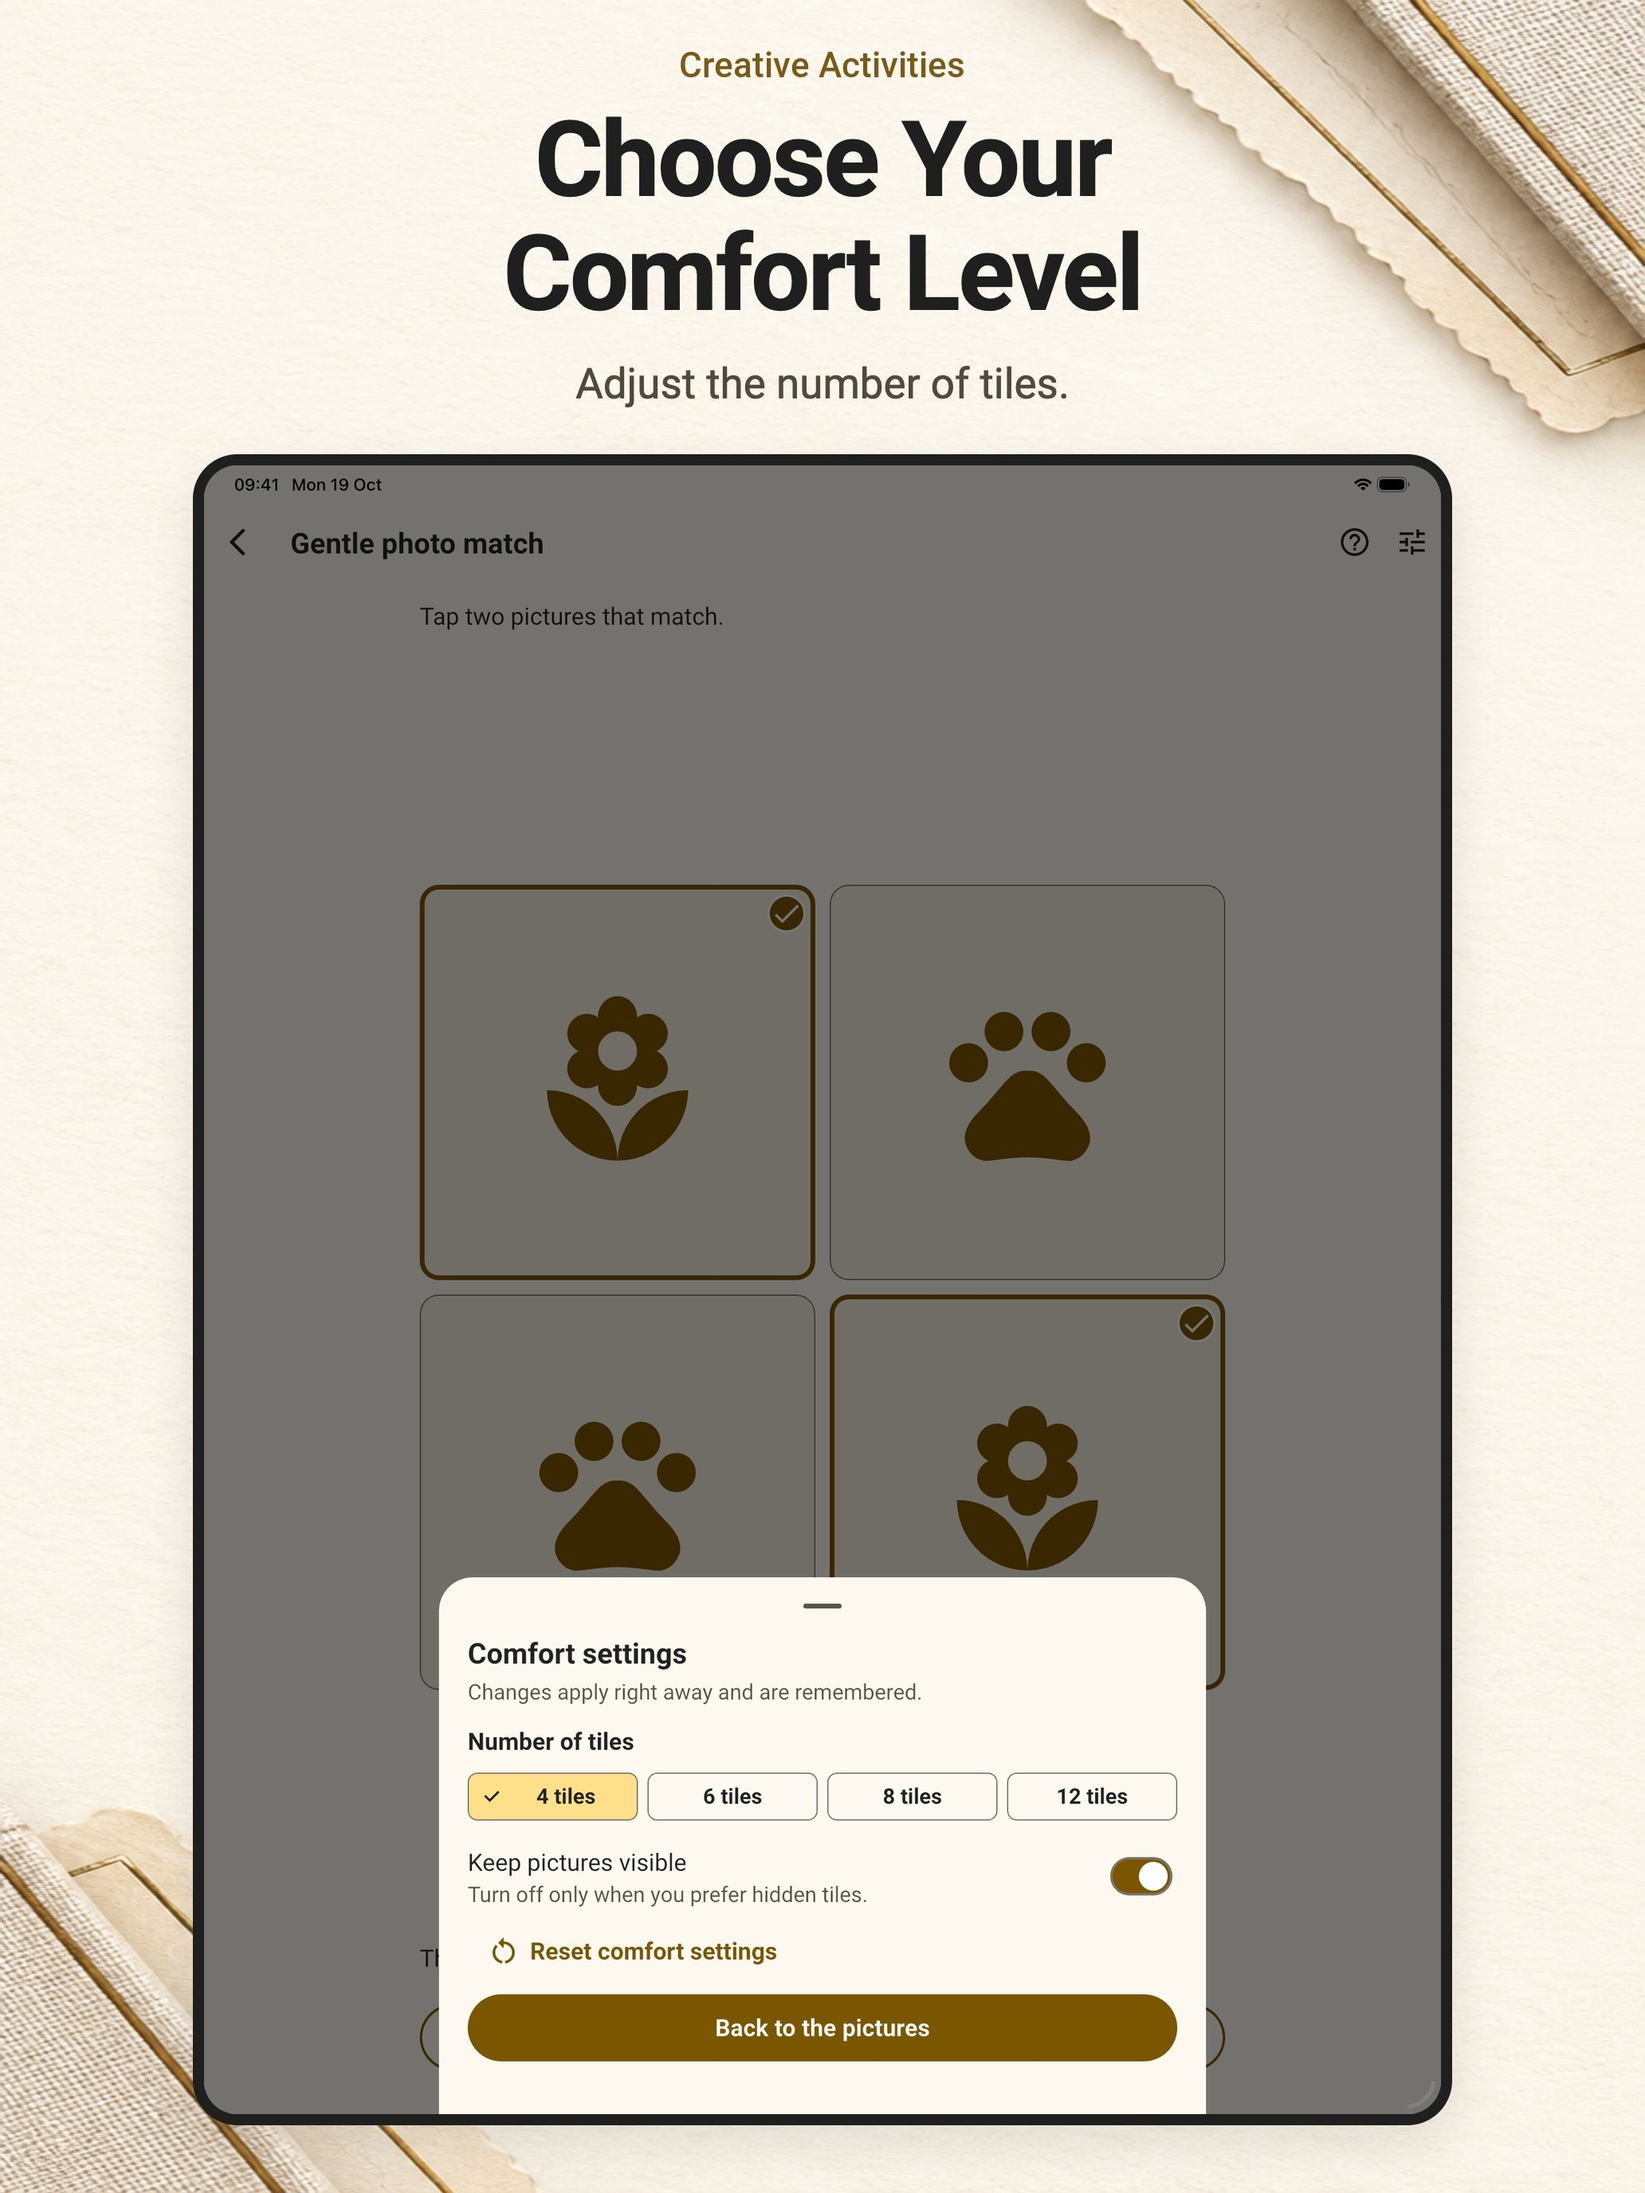
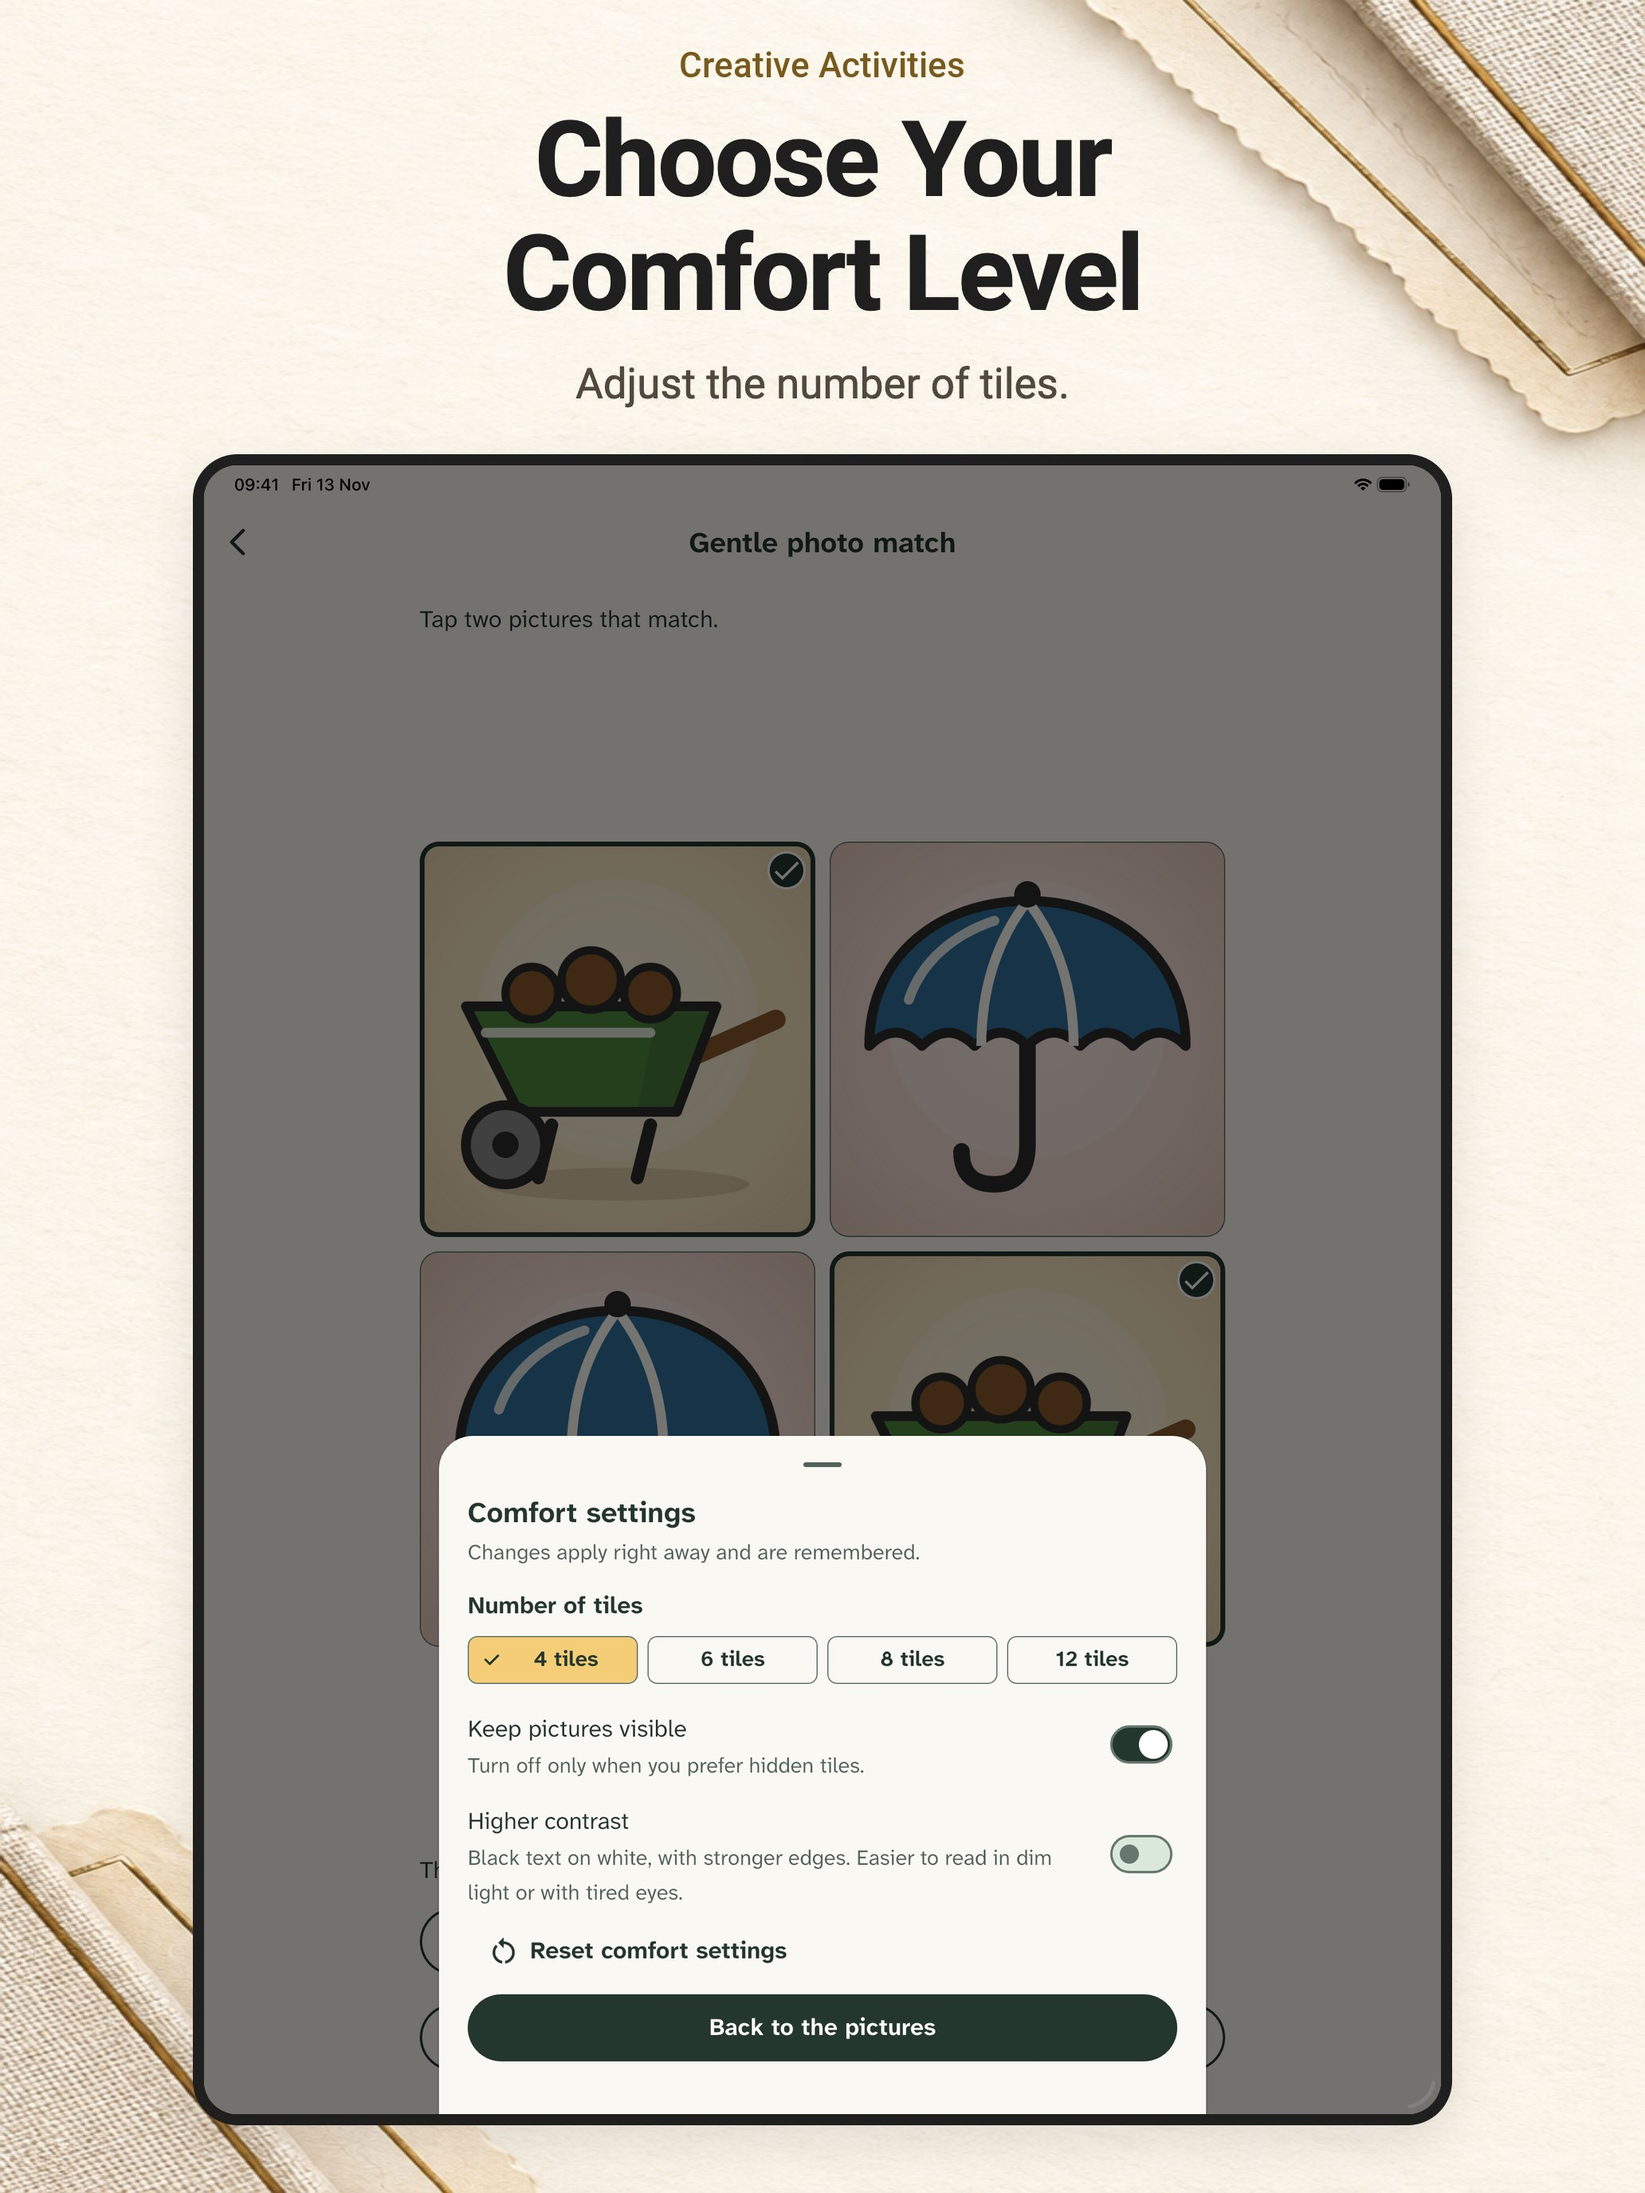
chore: retake iPhone and iPad store screenshots in the new palette
The store frames showed the Golden Moments palette. Recapture all twelve
iOS frames from a53cc0e on iOS 26.5 simulators and recompose them into the
approved frames. The capture test opened comfort settings through the
Home menu, which the game screen no longer has; it now taps the game
screen's own Comfort settings button. Google Play frames are not retaken.

Claude-Session: https://claude.ai/code/session_01JyKFwLLPRregv73jTxnAch

diff --git a/integration_test/store_screens_test.dart b/integration_test/store_screens_test.dart
@@ -45,7 +45,10 @@ void main() {
       await _hostCapture(tester, '03');
 
       // 5. The comfort sheet over the activity.
-      await tapHomeMenuItem(tester, 'Comfort settings');
+      await tapOn(
+        tester,
+        buttonWithLabel<OutlinedButton>(find.text('Comfort settings')),
+      );
       await waitFor(tester, find.text('Back to the pictures'));
       await _hostCapture(tester, '05');
       await tapOn(tester, find.text('Back to the pictures'));

diff --git a/assets/screenshots/en-US/README.md b/assets/screenshots/en-US/README.md
@@ -4,11 +4,11 @@ Six separate iPhone JPEGs at 1320 by 2868 pixels, six iPad JPEGs at 2064 by 2752
 
 ## Brand label
 
-On 2026-11-13 the small label above each headline changed from "Golden Moments" to "Creative Activities" with `scripts/relabel_store_frames.py --font <Roboto-Medium.ttf>`. Only the label changed. Frame 4 still shows "Picture 1 of 2", which build 14 (1.10.0) no longer displays; retake it before a public submission.
+On 2026-11-13 the small label above each headline changed from "Golden Moments" to "Creative Activities" with `scripts/relabel_store_frames.py --font <Roboto-Medium.ttf>`. Only the label changed. Frame 4's "Picture 1 of 2" is correct: 1.10.0 drops the count only for the included drawings, and family photos keep it.
 
 ## Current captures
 
-The current captures come from `b9e681c`, the album library with family photos shown as cropped prints. They were taken on the iPhone 17 Pro Max and iPad Pro 13-inch (M5) simulators running iOS 26.5, both with `scripts/capture_store_screens.sh`. That script runs `integration_test/store_screens_test.dart`, which drives the real app to each frame and pauses while the screen is saved.
+The iPhone and iPad captures were retaken on 2026-11-13 from `a53cc0e`, the 1.10.0 source with the Creative Activities palette (ink, canvas, sage, sun) and Atkinson Hyperlegible Next type. The Google Play frames in `android/` still come from `b9e681c` and show the previous palette; retake them before they are used again. Both iOS sets were taken on the iPhone 17 Pro Max and iPad Pro 13-inch (M5) simulators running iOS 26.5, with `scripts/capture_store_screens.sh`. The iPad status bar shows the capture date next to 9:41. That script runs `integration_test/store_screens_test.dart`, which drives the real app to each frame and pauses while the screen is saved.
 
 - **Status bar:** cleared, then set to 9:41 with `xcrun simctl status_bar`. Clearing first matters: a stale override once left a charging battery and "no service" dots.
 - **Debug banner:** hidden for capture only; a release build never shows it.
